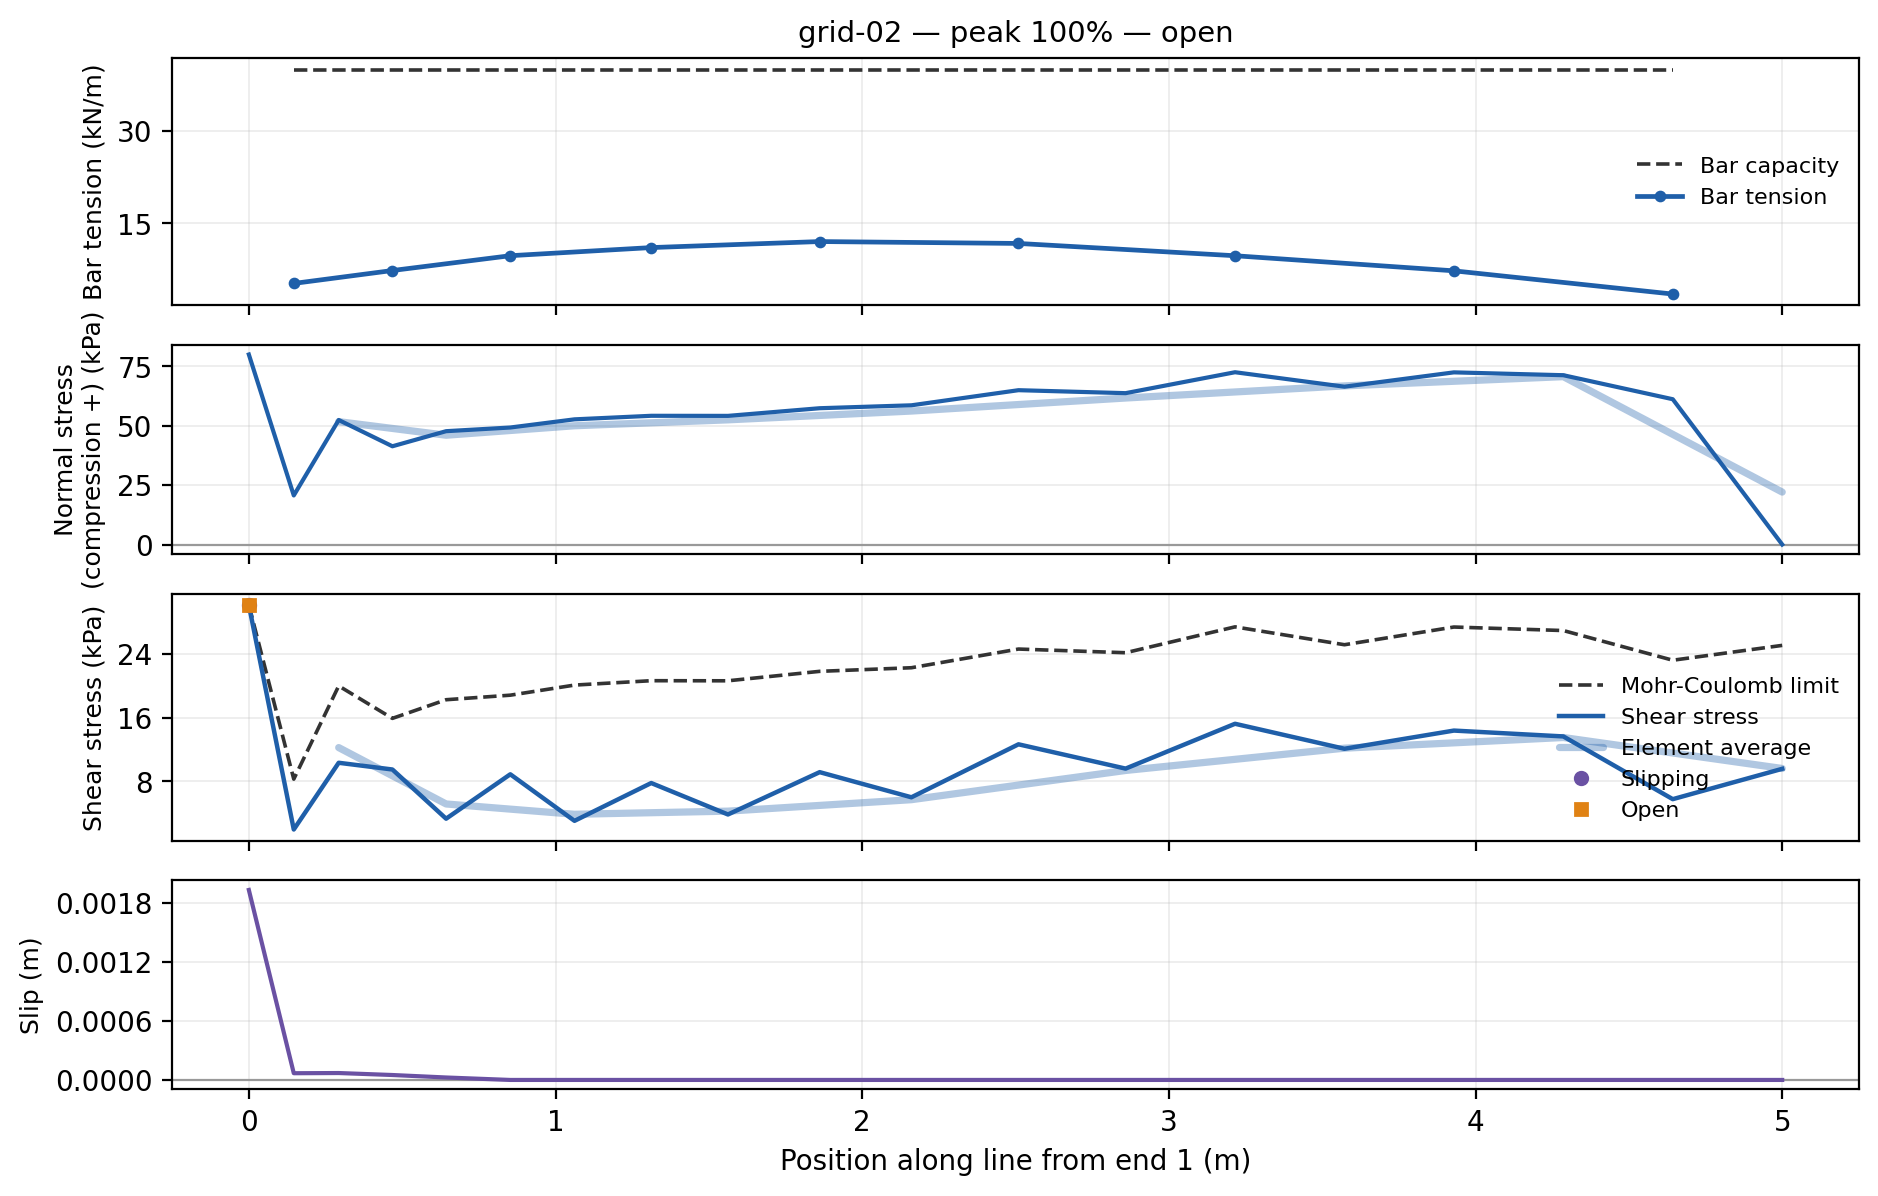
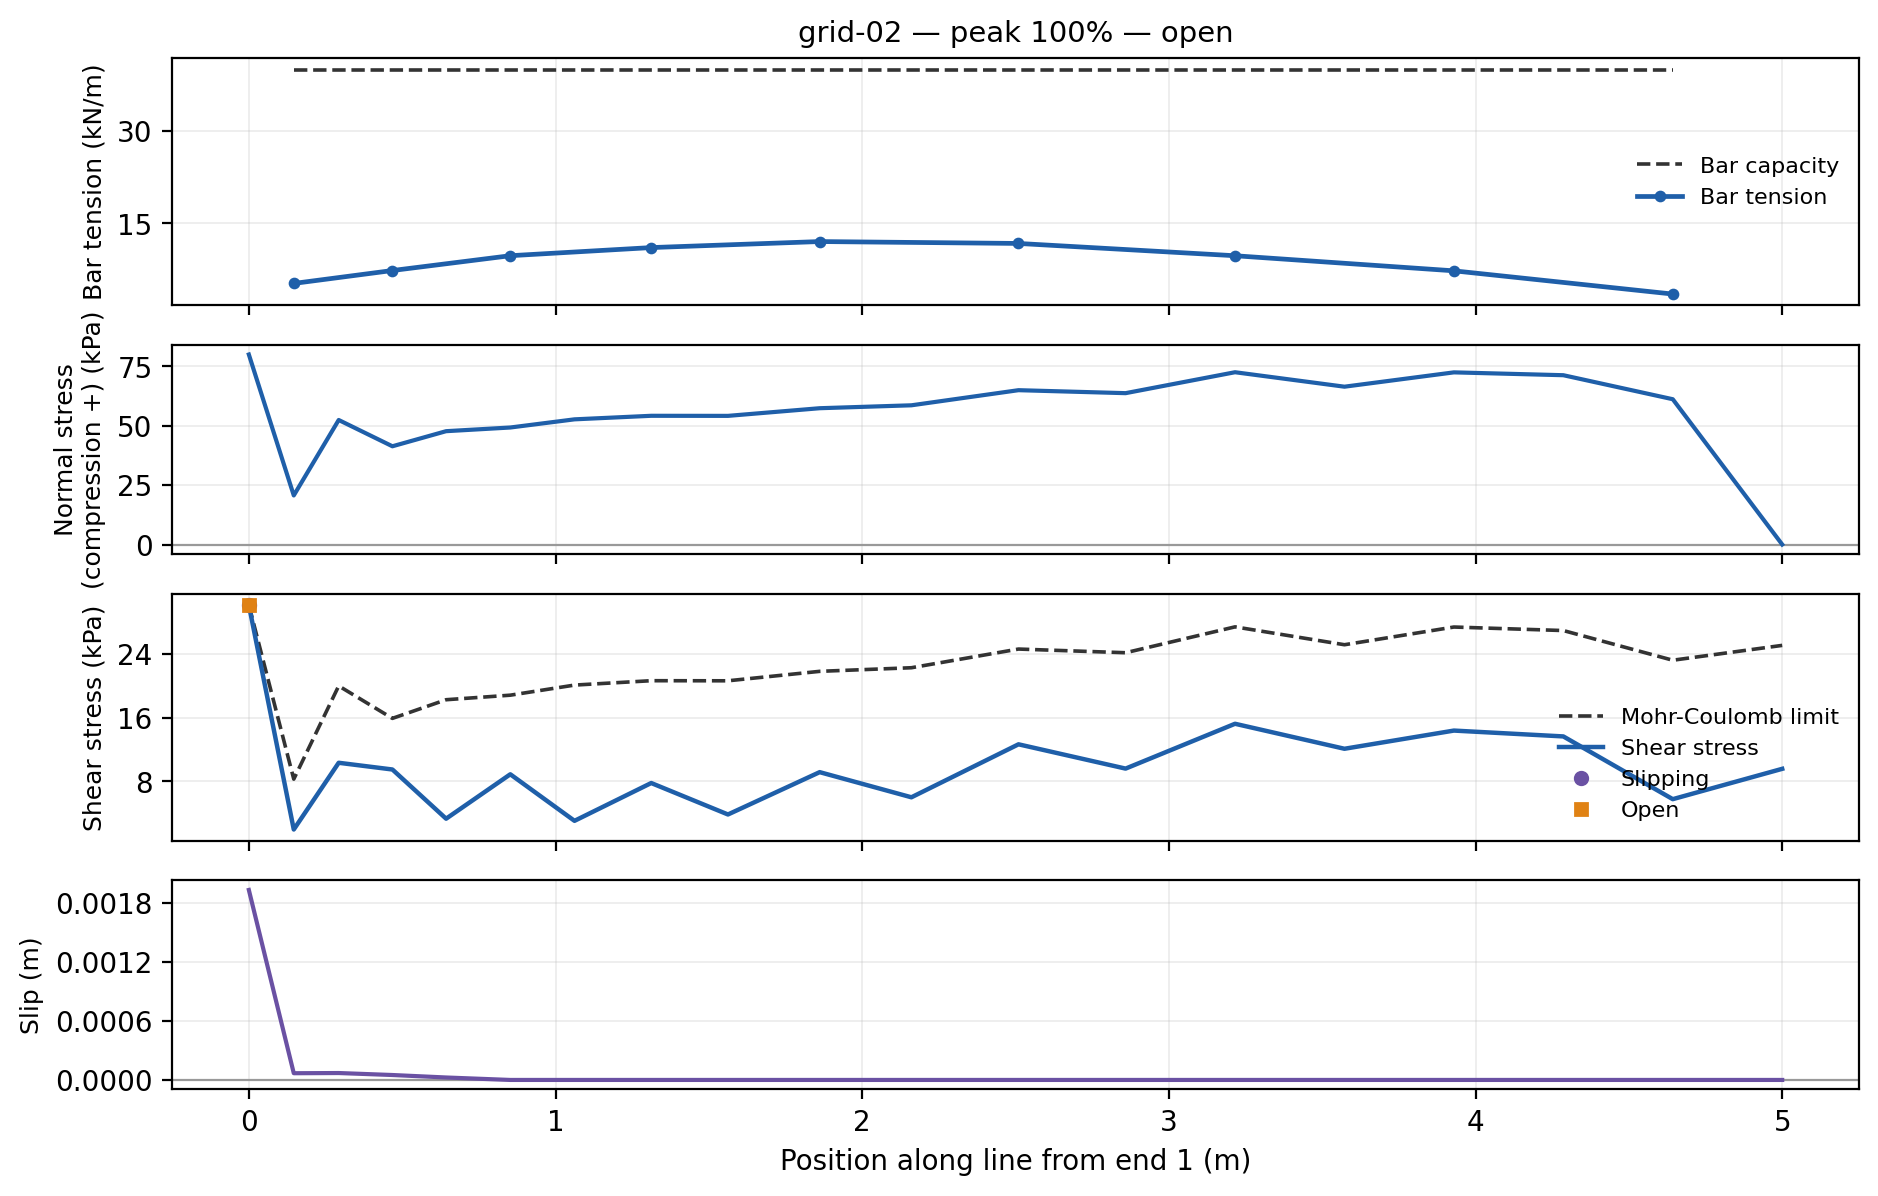
1D details: the element-average line is withdrawn; the figure reads more simply without it
This reverts commit af6b893f: the panels, the three FEM-3 details figures
and the two docs sentences return to their previous state.

Claude-Session: https://claude.ai/code/session_01XjjT2aBxw8gY7EFdpoUcpj

diff --git a/xslope/fem_details.py b/xslope/fem_details.py
@@ -1046,23 +1046,6 @@ def joint_profile(fem_data, solution, line_id, slope_data=None,
     if not rows:
         return blank
 
-    # The element averages: each interface element's three pairs weighted one
-    # sixth, two thirds, one sixth (Simpson, the element's own nodal weights) —
-    # the force the element actually transfers, keyed by its middle pair's node
-    # and, where the two faces meet, the larger of the two, as the rows are.
-    elem_rows = {}
-    for i in np.flatnonzero(line_of == line_id):
-        if not all(w[i, p] for p in range(3)):
-            continue
-        mid = int(conn[i, 3 + 1] if side[i] == 1 else conn[i, 1])
-        ts_avg = (abs(ts[i, 0]) + 4.0 * abs(ts[i, 1]) + abs(ts[i, 2])) / 6.0
-        tn_avg = (tn[i, 0] + 4.0 * tn[i, 1] + tn[i, 2]) / 6.0
-        e = elem_rows.setdefault(mid, {"ts": 0.0, "tn": 0.0})
-        if ts_avg >= e["ts"]:
-            e["ts"] = float(ts_avg)
-        if abs(tn_avg) >= abs(e["tn"]):
-            e["tn"] = float(tn_avg)
-
     ids = np.array(sorted(rows), dtype=int)
     pts = nodes[ids, :2]
     # Distance from end 1: the stations run along a straight line, so the
@@ -1109,19 +1092,10 @@ def joint_profile(fem_data, solution, line_id, slope_data=None,
         bar_s, bar_T, bar_cap = prof["s"], prof["T"], prof["t_allow"]
     else:
         bar_s = bar_T = bar_cap = empty
-    # The element averages, placed at their middle pair's station.
-    s_of_node = {int(n_): float(s_) for n_, s_ in zip(ids, sdist)}
-    elem_ids = [n_ for n_ in sorted(elem_rows, key=lambda n_: s_of_node.get(n_, 0.0))
-                if n_ in s_of_node]
-    elem_s = np.array([s_of_node[n_] for n_ in elem_ids], dtype=float)
-    elem_ts = np.array([elem_rows[n_]["ts"] for n_ in elem_ids], dtype=float)
-    elem_tn = np.array([elem_rows[n_]["tn"] for n_ in elem_ids], dtype=float)
-
     return {
         "kind": "joint", "index": int(line_id), "label": label,
         "length": length,
         "s": sdist, "x": pts[:, 0], "y": pts[:, 1],
-        "elem_s": elem_s, "elem_ts": elem_ts, "elem_tn": elem_tn,
         "tn": np.array([r["tn"] for r in rec]),
         "ts": ts_a, "tlim": tlim_a,
         "slip": np.array([r["slip"] for r in rec]),

diff --git a/xslope/plot_fem_details.py b/xslope/plot_fem_details.py
@@ -580,13 +580,6 @@ def plot_joint_detail(profile, fig=None, fit_height=True):
     # --- normal traction ---------------------------------------------------
     ax_n.axhline(0.0, color="0.6", linewidth=0.8)
     ax_n.plot(s, profile["tn"], "-", color=C_FORCE, linewidth=1.5)
-    elem_s = np.asarray(profile.get("elem_s", []), dtype=float)
-    if len(elem_s) >= 2:
-        # The element averages (one sixth, two thirds, one sixth of the three
-        # stations): the force each element transfers, which runs smoothly where
-        # the station values zigzag on a gripping interface.
-        ax_n.plot(elem_s, profile["elem_tn"], "-", color=C_FORCE, linewidth=2.6,
-                  alpha=0.35, solid_capstyle="round")
     ax_n.set_ylabel(_axis_label("Normal stress\n(compression +)",
                                 u.get("stress")), fontsize=9)
     ax_n.grid(True, **GRID)
@@ -597,11 +590,6 @@ def plot_joint_detail(profile, fig=None, fit_height=True):
     lim, = ax_s.plot(s, tlim, "--", color=C_ENVELOPE, linewidth=1.3)
     mob, = ax_s.plot(s, ts, "-", color=C_FORCE, linewidth=1.6)
     h, l = [lim, mob], ["Mohr-Coulomb limit", "Shear stress"]
-    if len(elem_s) >= 2:
-        avg, = ax_s.plot(elem_s, profile["elem_ts"], "-", color=C_FORCE,
-                         linewidth=2.6, alpha=0.35, solid_capstyle="round")
-        h.append(avg)
-        l.append("Element average")
     slipping = np.asarray(profile["slipping"], dtype=bool)
     opened = np.asarray(profile["open"], dtype=bool)
     if slipping.any():

diff --git a/docs/tutorials/fem03_block_wall_joints.md b/docs/tutorials/fem03_block_wall_joints.md
@@ -567,10 +567,9 @@ where the sheet grips, the shear stress zigzags from station to station
 between about 12 and 26 kPa. That is how a gripping interface reads out, not a
 change in the stress along the sheet: each station reports the force passed
 through its node over the short length it stands for, and the average over
-each element, the force the sheet actually picks up, is the lighter line
-through the stations: it runs smoothly at about 17 to 20 kPa. The joints page
-explains it under *Why the shear traction can zigzag where an interface
-grips*.
+each element, the force the sheet actually picks up, runs smoothly at about
+17 to 20 kPa. The joints page explains it under *Why the shear traction can
+zigzag where an interface grips*.
 
 One more step in strength and the top layer has nothing left to give, and the
 wall goes. This is the failed state at 2.0, drawn to scale, with no

diff --git a/docs/fem/joints.md b/docs/fem/joints.md
@@ -238,8 +238,7 @@ each end station plus two thirds of the middle one, is the force the element act
 transfers, it runs smoothly, and a ten times stiffer interface does not change it. It
 disappears where the interface slips, because every slipping station is held at its own
 Mohr-Coulomb limit, which follows the normal stress. Read a gripping stretch by its element
-averages, not station by station; the 1D details panel draws them as the lighter line through
-the stations, on the normal and the shear panels.
+averages, not station by station.
 
 The element's own law — the peak limit, the residual drop and the opening a dilating joint produces
 per unit of slip — is checked against its closed forms by `test/joint_element_check.py`.
